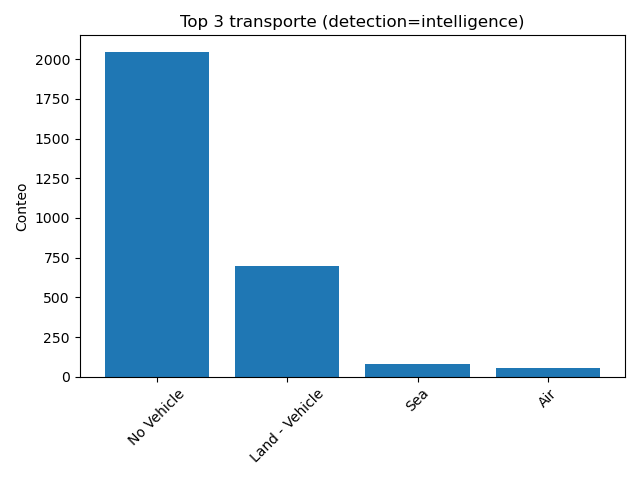
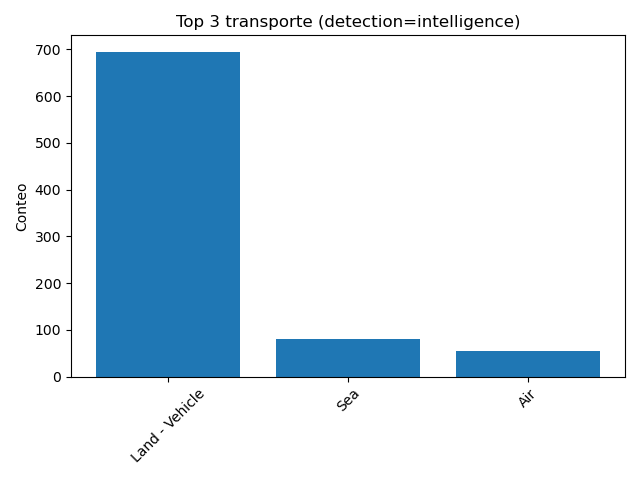
removed extro 'No vehicle' bar

diff --git a/Tablas/src/analytics.cpp b/Tablas/src/analytics.cpp
@@ -82,20 +82,13 @@ TimeSeries Analytics::incident_totals_by_year(int from_year, int to_year) {
 ResultSetKV Analytics::top3_transport_by_intelligence(){
     ResultSetKV rs;
     std::string sql = R"SQL(
-        WITH filtered AS (
-            SELECT 
-                CASE 
-                    WHEN TRIM(transport_mode) = '' OR transport_mode IS NULL THEN 'No Vehicle'
-                    ELSE transport_mode
-                END AS label
-            FROM details
-            WHERE detection LIKE '%Intelligence%' COLLATE NOCASE
-        )
-        SELECT label, COUNT(*) AS c
-        FROM filtered
-        GROUP BY label
+        SELECT transport_mode, COUNT(*) AS c
+        FROM details
+        WHERE LOWER(COALESCE(detection, '')) LIKE '%intelligence%' 
+        AND TRIM(COALESCE(transport_mode, '')) != ''
+        GROUP BY transport_mode
         ORDER BY c DESC
-        LIMIT 4
+        LIMIT 3
     )SQL";
     exec_rs_kv(db_, sql, rs);
     return rs;
